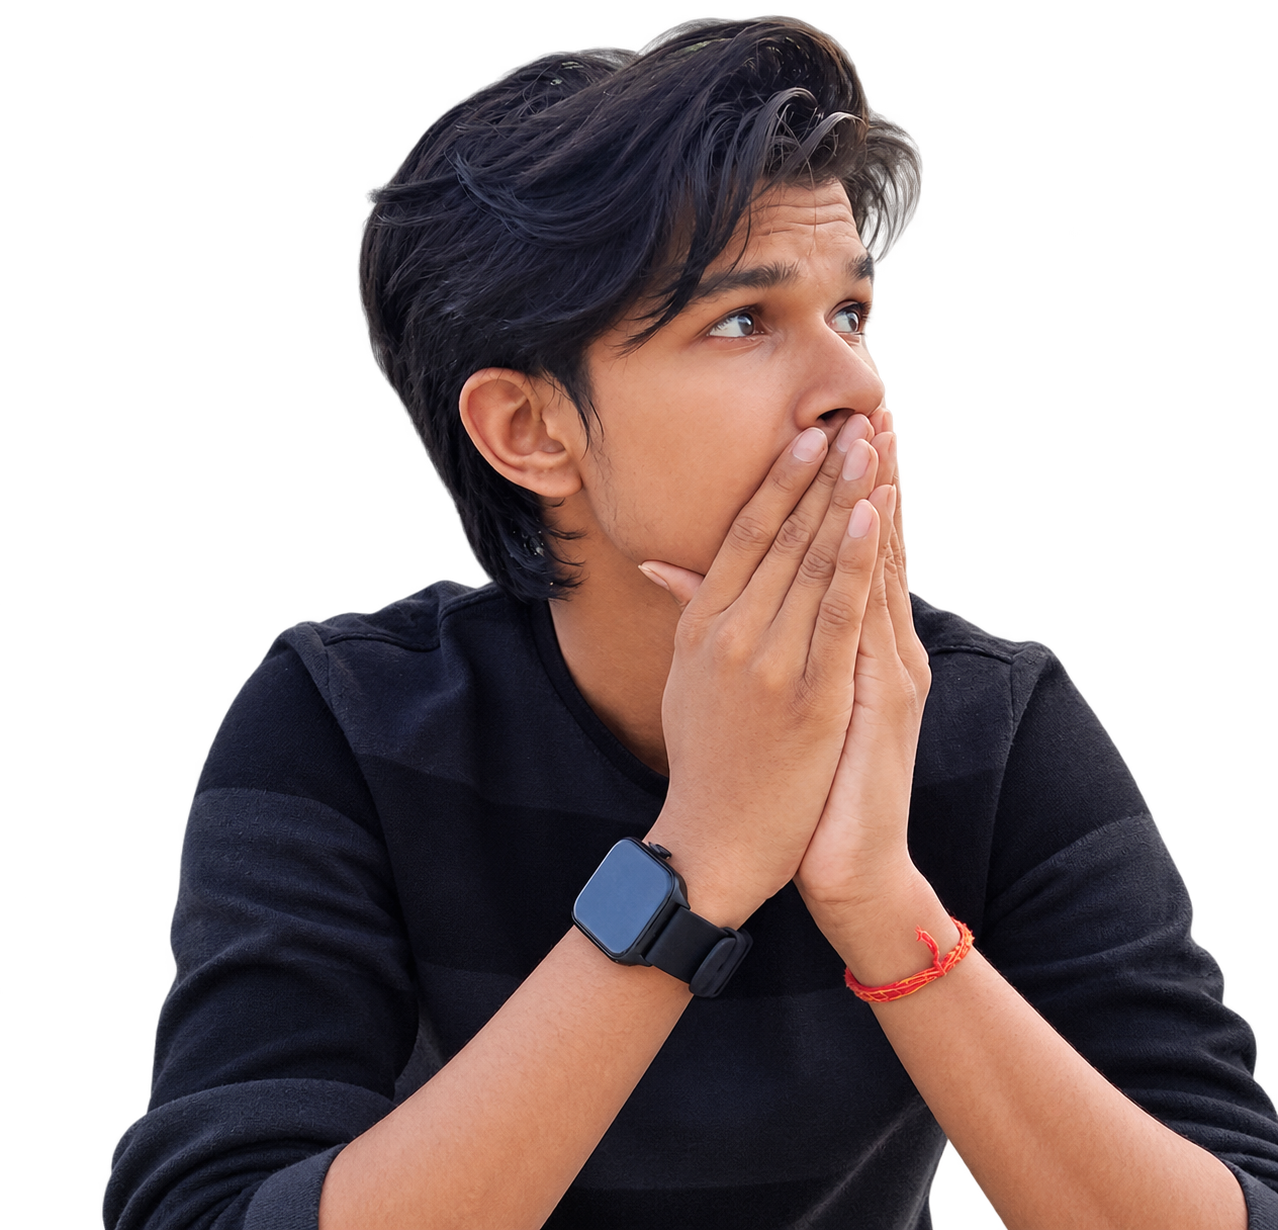
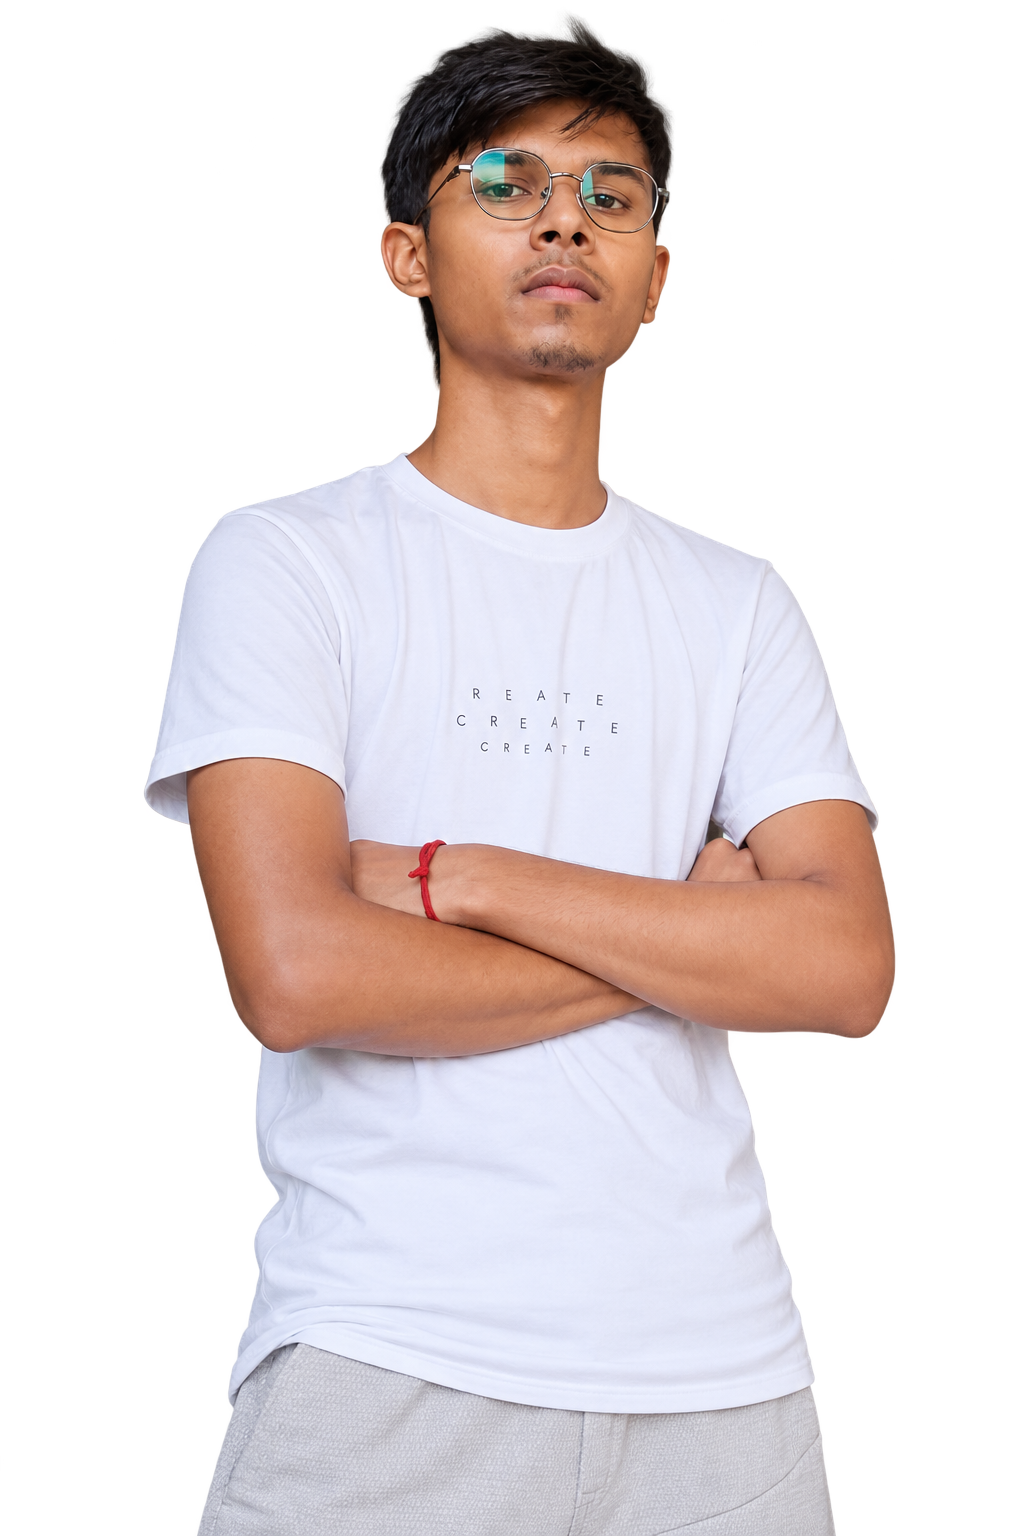
changes the profile photo

diff --git a/css/styles.css b/css/styles.css
@@ -157,7 +157,7 @@ img {
 }
 
 .profile__img{
-  width: 200px;
+  width: 230px;
   transform: translateY(0.5rem) rotate(-5deg);
   justify-self: center;
   align-self: flex-end;
